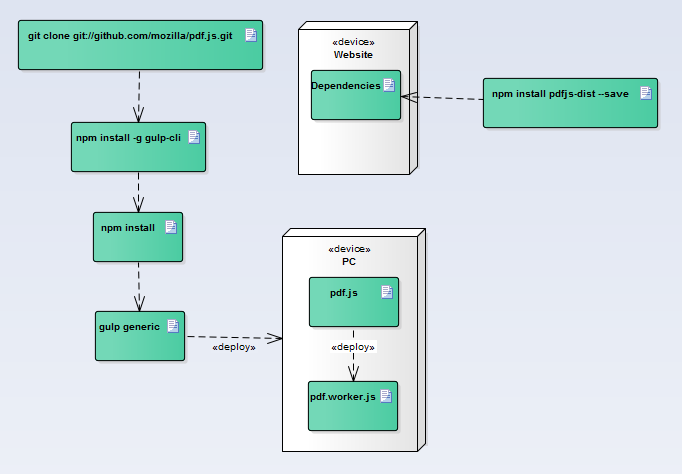
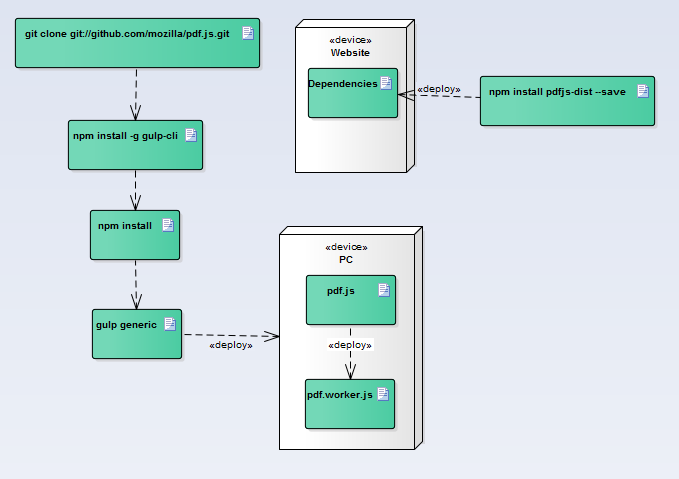
deployment view finished!

Changed region(s): [[0.0, 0.0295, 0.6495, 0.9747], [0.433, 0.0295, 0.9588, 0.384]]

diff --git a/ESOF/Relatório 3.md b/ESOF/Relatório 3.md
@@ -37,6 +37,16 @@ A base da arquitetura é a *promessa*. Uma promessa representa o resultado de um
 O pdf.js usa estas promessas para carregar todos os módulos sem haver atrasos de espera por ficheiros mais extensos. 
 
 
+## Deployment View
+
+Nesta vista, percebemos onde e como podemos implementar o pdf.js. Verificamos que este tanto pode ser implementado num computador com recurso à clonagem do repositorio e posterior compilação (modo mais usado por developers), ou com recurso à simples adição das dependências e consequente integração no código dum website.
+
+<img src = ".\Relatório 3 - Esquemas\Deployment View.png" alt = "deployment view">
+
+
+------------------------------------
+
+
 
 Links úteis: https://addyosmani.com/resources/essentialjsdesignpatterns/book/
 
